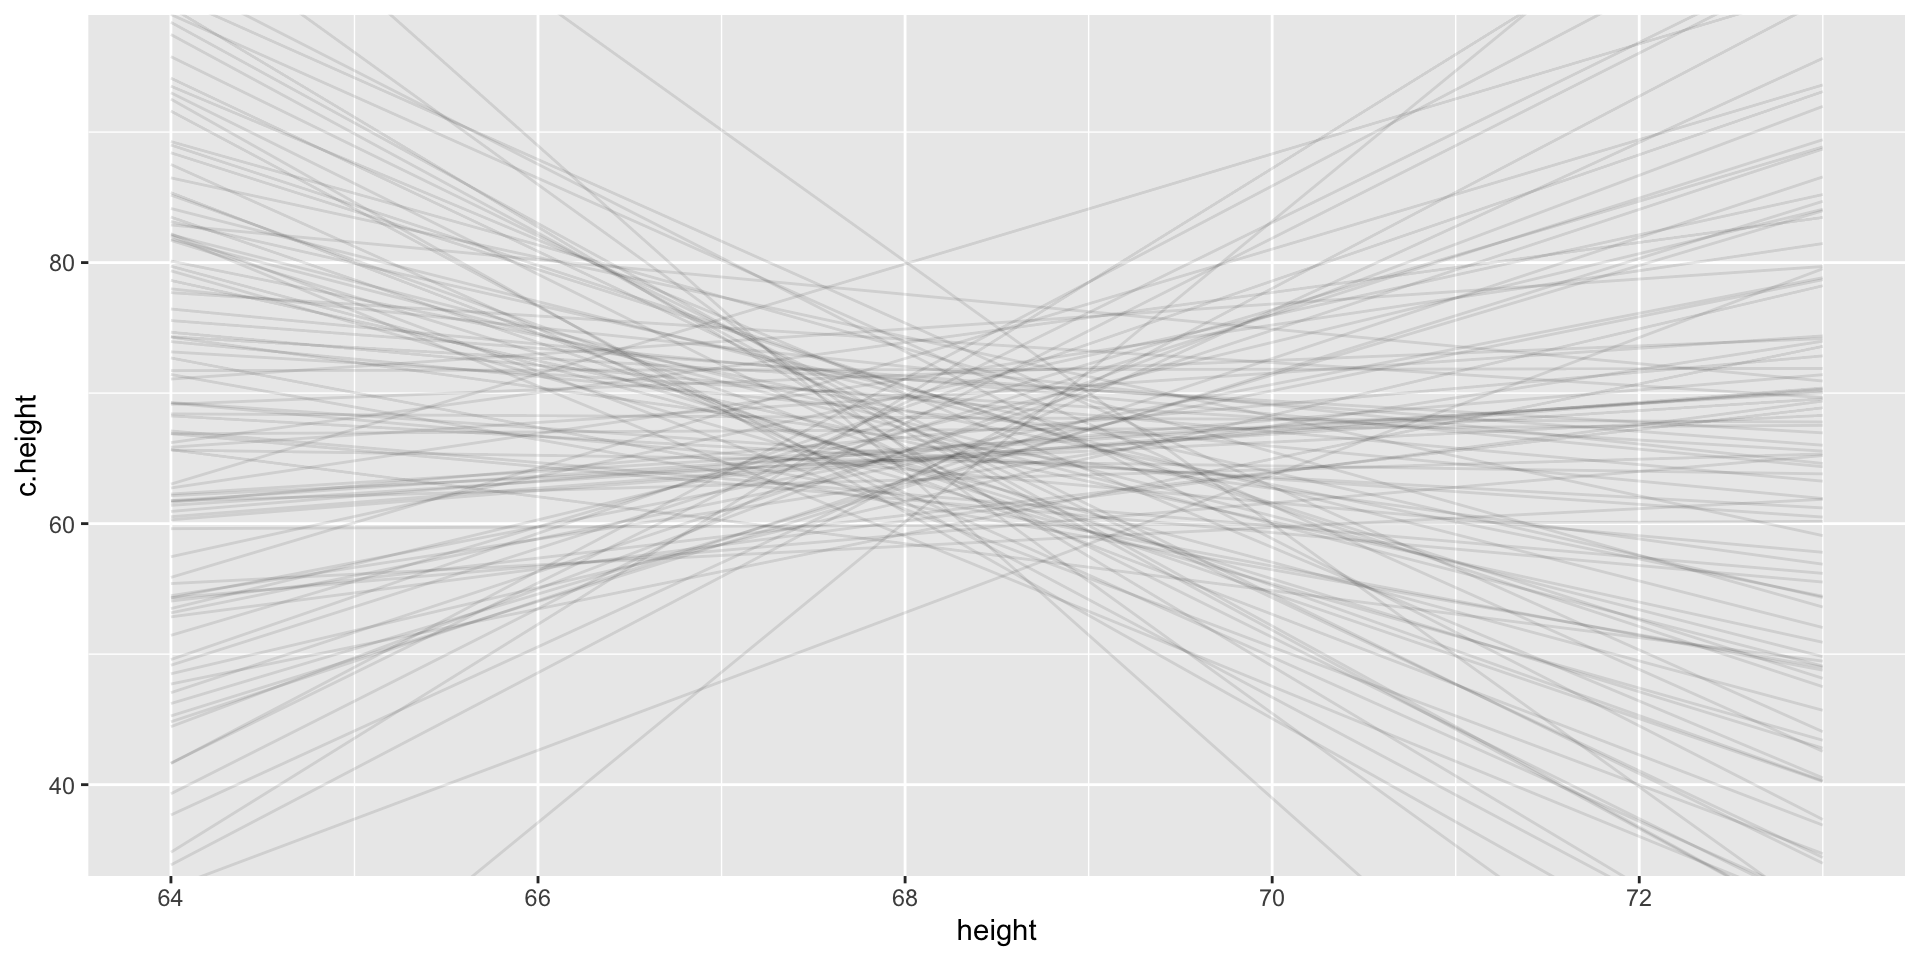
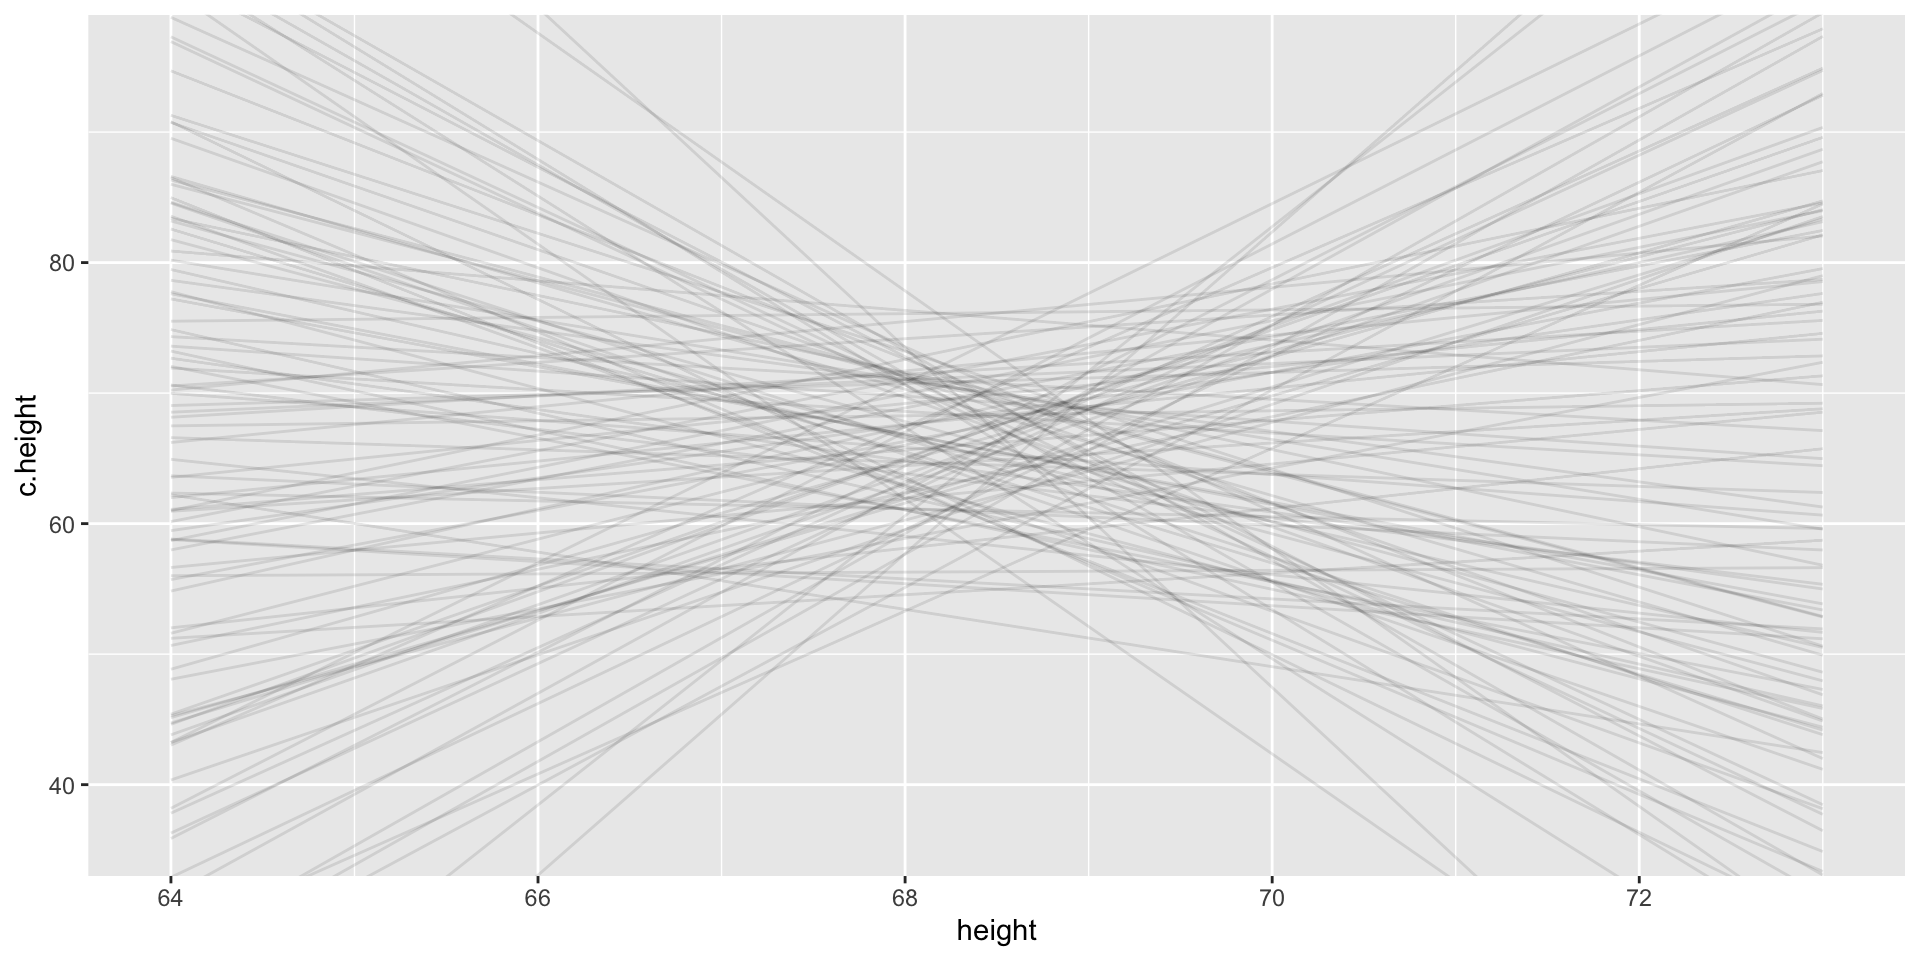
lecture 1 updates

diff --git a/_site/bayes-1.html b/_site/bayes-1.html
@@ -379,7 +379,7 @@ scale reduction factor on split chains (at convergence, Rhat = 1).</code></pre>
 <p>brms handed us a whole distribution for each parameter. To see where it comes from, we’ll build it up from something you already know:</p>
 <ol type="1">
 <li><strong>Likelihood</strong>: how well does each possible parameter value explain the data? (next)</li>
-<li><strong>Maximum likelihood</strong>: pick the single best-scoring value. This is what <code>lm()</code>, <code>glm()</code>, <code>lmer()</code> and SEM software do</li>
+<li><strong>Maximum likelihood</strong>: pick the single best-scoring value. This is what <code>glm()</code>, <code>lmer()</code> and lavaan do</li>
 <li>What maximum likelihood throws away, and why that matters for thinking in distributions (end of this section)</li>
 <li><strong>Priors</strong>: the missing piece that turns likelihoods into a distribution of plausible values (point 3)</li>
 <li><strong>MCMC</strong>: the algorithm that does all of this when the model is too big to do by hand (end of point 3, and lecture 5)</li>
@@ -392,6 +392,7 @@ scale reduction factor on split chains (at convergence, Rhat = 1).</code></pre>
 <ul>
 <li>Three parameters in a binomial distribution (# successes, # of trials, probability of success).</li>
 <li>Often you would fix #trials and probability of success to see what # successes are most/least likely.</li>
+<li>Probability/PMF: You treat the parameters (size = n, prob = p) as fixed and known, and you vary the data (x, the number of successes)</li>
 </ul>
 </div><div class="column" style="width:65%;">
 <div class="cell">
@@ -420,24 +421,16 @@ scale reduction factor on split chains (at convergence, Rhat = 1).</code></pre>
 </div>
 </div></div>
 </section>
-<section id="likelihood-is-a-function-of-the-parameter" class="slide level2">
-<h2>Likelihood is a function of the parameter</h2>
-<ul>
-<li><p>Note how this is in the form of: p(data | hypothesis)</p></li>
-<li><p>“What is the probability of having x successes given a fixed probability of success?”</p></li>
-<li><p>Good at rejecting some preconceived state of the world (is this coin fair), but not good at estimating p (what is the probability of heads for this coin?)</p></li>
-</ul>
-</section>
 <section id="most-often-we-dont-know-what-p-is" class="slide level2">
 <h2>Most often we don’t know what p is</h2>
 <ul>
-<li><p>p is like the parameters we are trying to estimate in our science.</p></li>
-<li><p>We do not know p, that is why we are running the experiment.</p></li>
-<li><p>What we want is p(hypothesis | data).</p></li>
+<li><p>p is like the parameters we are trying to estimate in our science. We do not know p, that is why we are running the experiment.</p></li>
+<li><p>What we want is p(hypothesis | data). What we have is p(data | hypothesis)</p></li>
+<li><p>Likelihood: You treat the observed data (x and n) as fixed, and you vary the parameter (p)</p></li>
 </ul>
 </section>
-<section id="most-often-we-dont-know-what-p-is-1" class="slide level2">
-<h2>Most often we don’t know what p is</h2>
+<section id="likelihood" class="slide level2">
+<h2>Likelihood</h2>
 <div class="columns">
 <div class="column" style="width:30%;">
 <ul>
@@ -466,22 +459,21 @@ scale reduction factor on split chains (at convergence, Rhat = 1).</code></pre>
 <h2>Probability vs.&nbsp;likelihood</h2>
 <ul>
 <li><p>“Probability attaches to possible results; likelihood attaches to hypotheses”</p></li>
-<li><p>The first graph assumed p = .2. Probabilities are about a fixed distribution. p( data | distribution ) or p(heads | p = .2).</p></li>
-<li><p>Likelihood is about hypotheses with fixed data. L(<span class="math inline">\(\theta\)</span>|data) = P(data|<span class="math inline">\(\theta\)</span>) across many theta/hypotheses. We entertained many hypotheses (p), which is why we looped it.</p></li>
+<li><p>The first graph assumed p = .2. Probabilities are about a fixed distribution. p( data | <span class="math inline">\(\theta\)</span> ) or p(heads | p = .2).</p></li>
+<li><p>Likelihood is about hypotheses with fixed data. L(<span class="math inline">\(\theta\)</span>|data) = P(data|<span class="math inline">\(\theta\)</span>) across many theta/hypotheses. We entertained many hypotheses (p/<span class="math inline">\(\theta\)</span>), which is why we looped it.</p></li>
 </ul>
 </section>
-<section id="maximum-likelihood-pick-the-best-score" class="slide level2 smaller">
-<h2>Maximum likelihood: pick the best score</h2>
+<section id="maximum-likelihood" class="slide level2">
+<h2>Maximum likelihood</h2>
 <ul>
-<li>The likelihood curve scores every possible value of p by how consistent it is with the data</li>
-<li><strong>Maximum likelihood</strong> reports the value with the highest score (the peak) as <em>the</em> estimate, plus a standard error for how sharp the peak is</li>
-<li>This is how most of the models you’ve run were estimated: logistic regression, multilevel models, SEM</li>
-<li>Next: do it ourselves, by brute force, so you can see exactly what the software does</li>
+<li><p><strong>Maximum likelihood</strong> reports the value with the highest score (the peak) as <em>the</em> estimate, plus a standard error for how sharp the peak is</p></li>
+<li><p>This is how logistic regression, multilevel models, SEM, etc are estimated.</p></li>
+<li><p>Next: do it ourselves, by brute force rather than an optimizer</p></li>
 </ul>
 </section>
 <section id="grid-approximation-try-every-value" class="slide level2 smaller">
 <h2>Grid approximation: try every value</h2>
-<p>Maximum likelihood, done by brute force:</p>
+<p>Maximum likelihood, but done by brute force:</p>
 <ol type="1">
 <li><strong>Make a grid</strong> of possible values for the parameter (e.g., p = 0, .01, .02, …, 1)</li>
 <li><strong>Likelihood</strong>: for each grid value, how likely are our data if that value were true? (<code>dbinom()</code>, <code>dnorm()</code>, …)</li>
@@ -626,10 +618,10 @@ scale reduction factor on split chains (at convergence, Rhat = 1).</code></pre>
 <p>Exactly 0? The true value is about <span class="math inline">\(10^{-944}\)</span>, far smaller than the smallest number a computer can store (about <span class="math inline">\(10^{-308}\)</span>). So we take logs:</p>
 <p><span class="math display">\[\log L = \log \prod_{i} p(y_i \mid \theta) = \sum_{i} \log p(y_i \mid \theta)\]</span></p>
 <ul>
-<li><strong>Products become sums</strong>, and adding numbers like −2 or −5 never underflows</li>
-<li><strong>Same peak</strong>: log is always increasing, so the parameter value with the highest likelihood also has the highest log-likelihood</li>
-<li>Log-likelihoods are <strong>negative</strong> (logs of numbers below 1). Closer to 0 = better fit</li>
-<li><code>dnorm(..., log = TRUE)</code> returns the log directly (more accurate than <code>log(dnorm(...))</code>)</li>
+<li><p><strong>Products become sums</strong></p></li>
+<li><p><strong>Same peak</strong>: log is always increasing, so the parameter value with the highest likelihood also has the highest log-likelihood</p></li>
+<li><p>Log-likelihoods are <strong>negative</strong> (logs of numbers below 1). Closer to 0 = better fit</p></li>
+<li><p><code>dnorm(..., log = TRUE)</code> returns the log directly (more accurate than <code>log(dnorm(...))</code>)</p></li>
 </ul>
 </section>
 <section id="the-log-likelihood-of-one-set-of-values" class="slide level2 smaller">
@@ -715,7 +707,6 @@ scale reduction factor on split chains (at convergence, Rhat = 1).</code></pre>
 <ul>
 <li>It answers “how likely are <strong>the data</strong>, if μ were this?”, not “how plausible is <strong>this μ</strong>, given the data?”</li>
 <li>It doesn’t add up to 1 across the possible values, so it can’t be read as probabilities</li>
-<li>It has no way to use what we already knew before collecting the data</li>
 </ul>
 </section>
 <section id="from-likelihood-to-a-distribution" class="slide level2">
@@ -962,7 +953,7 @@ scale reduction factor on split chains (at convergence, Rhat = 1).</code></pre>
 </section>
 <section id="from-a-grid-to-a-pile-of-guesses" class="slide level2 smaller nostretch">
 <h2>From a grid to a pile of guesses</h2>
-<p>Sample grid values in proportion to their posterior probability, and you get draws, just like brms gives you:</p>
+<p>Sample grid values in proportion to their posterior probability, and you get draws (educated guesses), just like brms gives you:</p>
 <div class="cell">
 <div class="code-copy-outer-scaffold"><div class="sourceCode cell-code" id="cb40"><pre class="sourceCode numberSource r number-lines code-with-copy"><code class="sourceCode r"><span id="cb40-1"><a aria-label="1"></a><span class="fu">set.seed</span>(<span class="dv">2027</span>)</span>
 <span id="cb40-2"><a aria-label="2"></a>coin_draws <span class="ot">&lt;-</span> coin_grid <span class="sc">%&gt;%</span></span>
@@ -1090,6 +1081,7 @@ scale reduction factor on split chains (at convergence, Rhat = 1).</code></pre>
 <li><p>Bayesian analysis counts all ways that something can happen (according to assumptions/model). Assumptions with more ways that are consistent with data are more plausible.</p></li>
 <li><p>This is the same scoring that maximum likelihood does (try out values, see which are most consistent with the data). Maximum likelihood then reports <em>one</em> winner.</p></li>
 <li><p>Where Bayes differs, is that there is no ONE result, that there are many possible results that are consistent with the data</p></li>
+<li><p>ML is an optimization problem (find the top), and Bayes is an integration problem (average over the whole surface)</p></li>
 </ul>
 </section>
 <section id="combining-the-three-components" class="slide level2">
